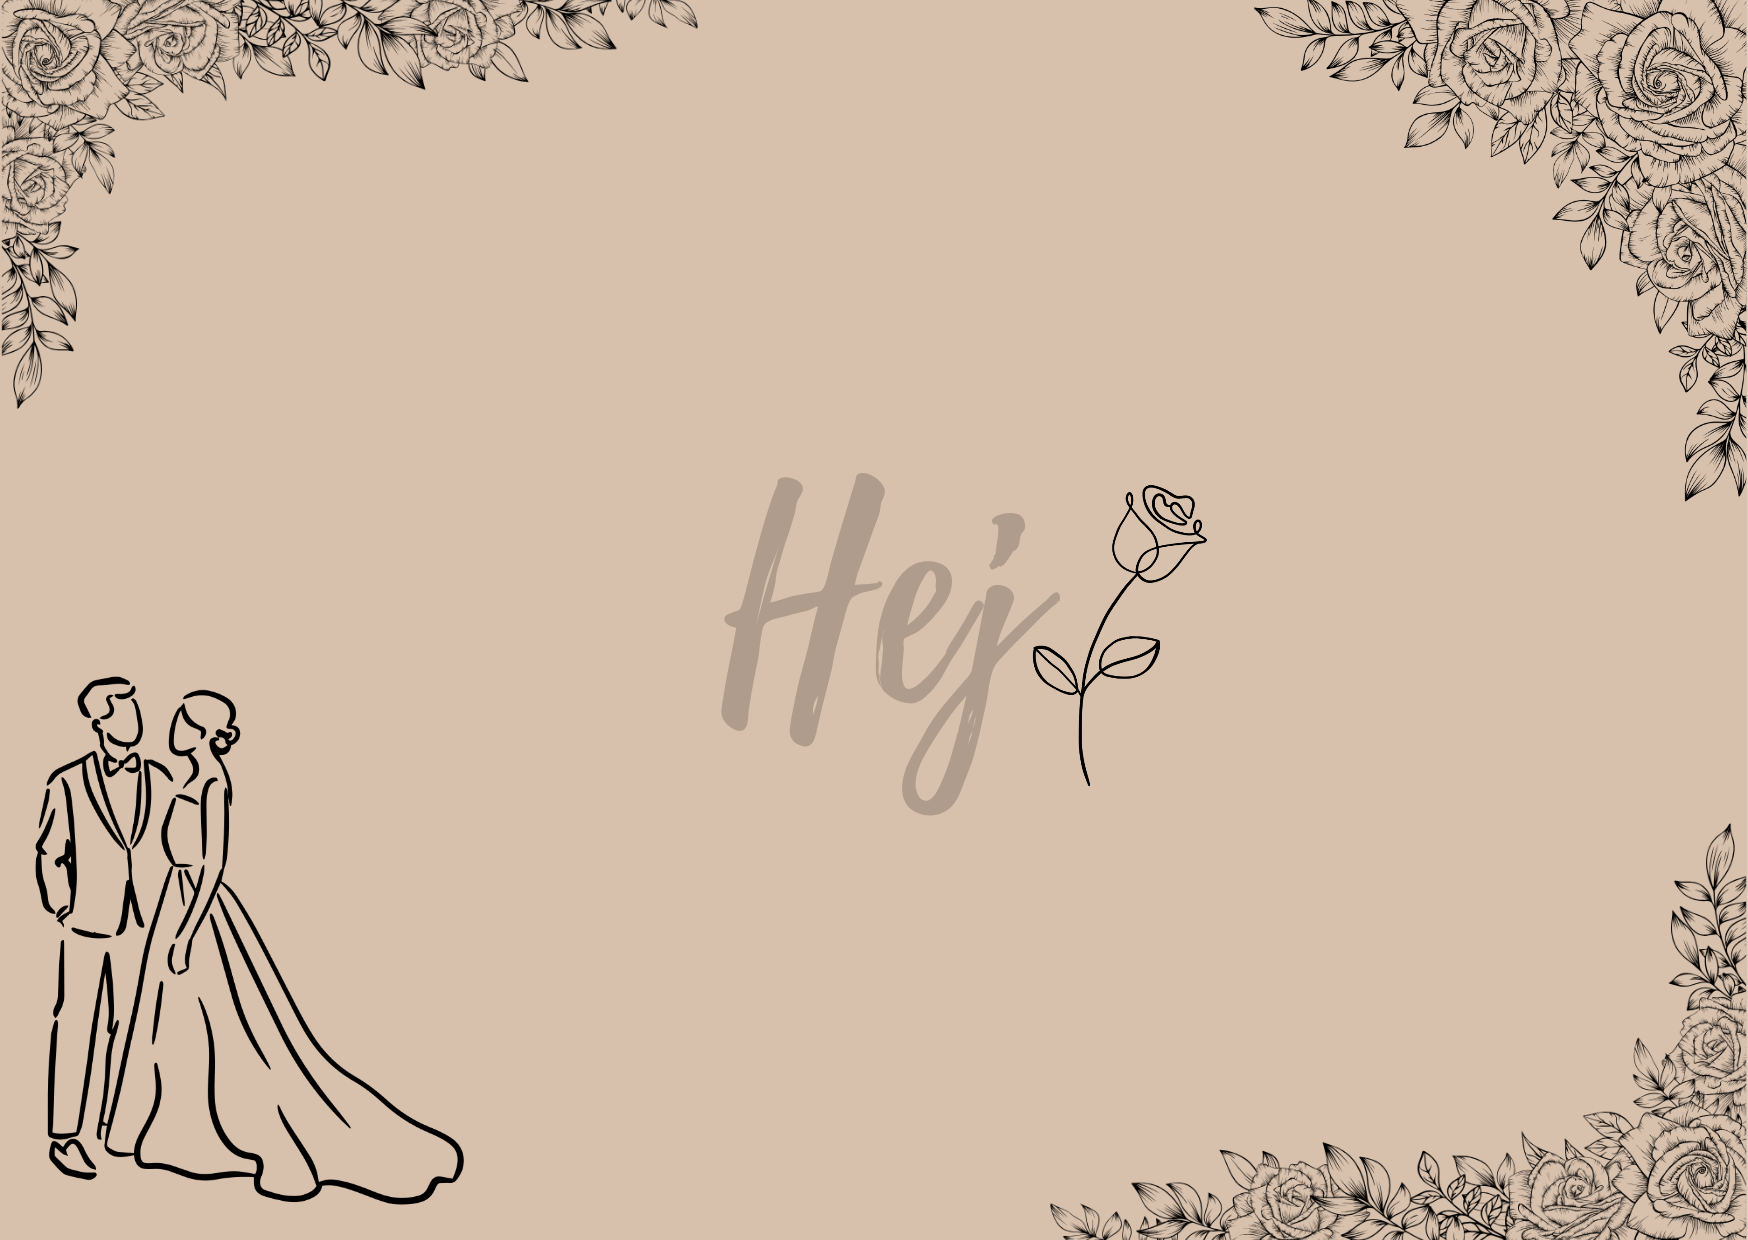
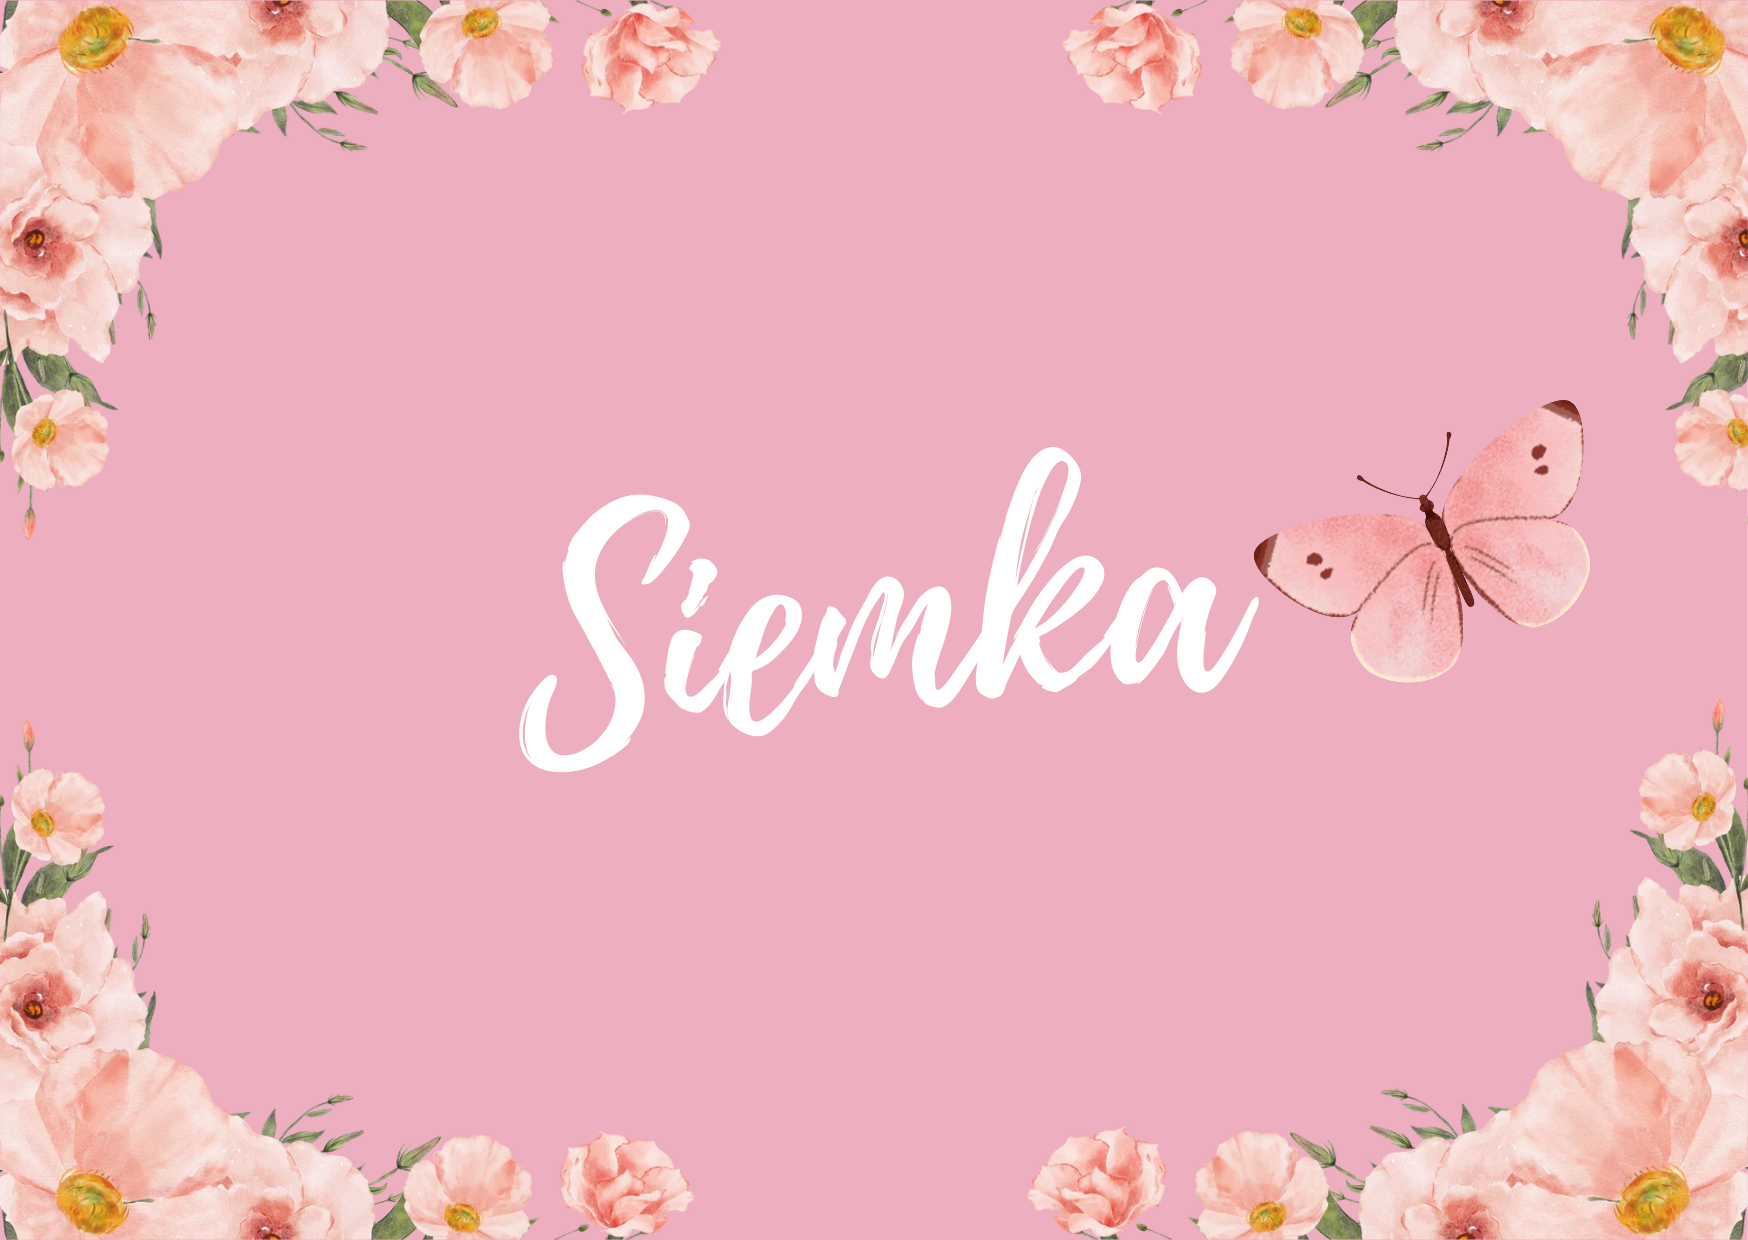
Add files via upload

diff --git a/index.html b/index.html
@@ -3,7 +3,7 @@
 <head>
 <meta charset="UTF-8" />
 <meta name="viewport" content="width=device-width, initial-scale=1" />
-<title>It's for you.</title>
+<title>It's for you💗</title>
 <style>
   body {
     margin: 0;
@@ -99,7 +99,7 @@
     color: #555;
     font-size: 16px;
   }
-
+   
   
   @media (max-width: 768px) {
     .card {
@@ -128,7 +128,7 @@
 </div>
 
 <footer>Autor: <em>Mateusz</em></footer>
-
+<footer><em>18.09.2026</em></footer>
 <script>
   const card = document.getElementById('card');
   const clickText = document.getElementById('clickText');
